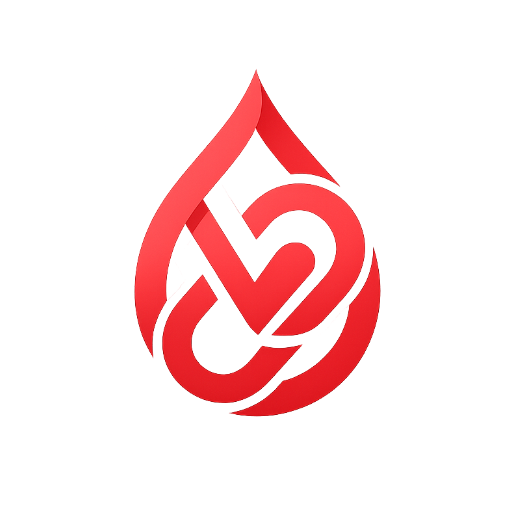
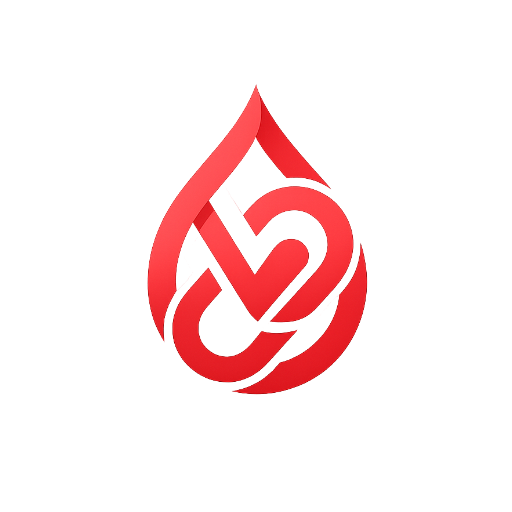
fix: mettre à jour l'image d'icône dans la configuration de l'application

diff --git a/app.config.ts b/app.config.ts
@@ -25,7 +25,7 @@ export default ({ config }: ConfigContext): ExpoConfig => ({
     package: "sn.vitalink.mobile",
     adaptiveIcon: {
       backgroundColor: "#E6F4FE",
-      foregroundImage: "./assets/images/forground.png",
+      foregroundImage: "./assets/images/icon.png",
     },
     edgeToEdgeEnabled: true,
     predictiveBackGestureEnabled: false,